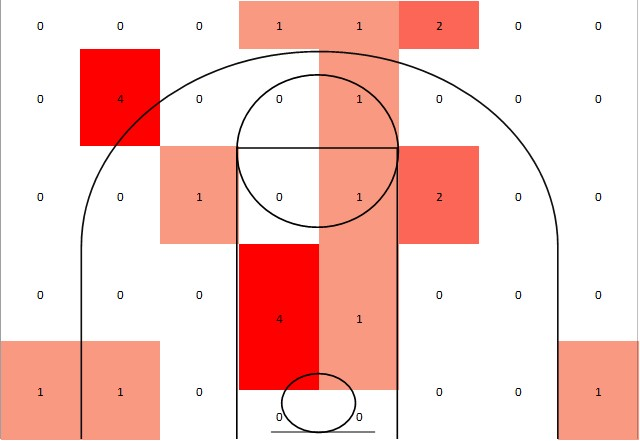
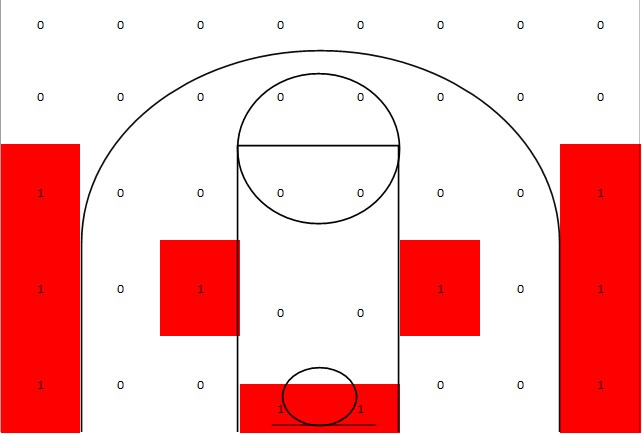
bianca

diff --git a/docs/bianca.html b/docs/bianca.html
@@ -32,16 +32,18 @@
     <!-- Area principal do site -->
     <main>
        <section class="materias">
-            <header class="depoimento_conteudo bloco_cabecalho_degrade">#4 Maila Ciciardi</a></header>
+            <header class="depoimento_conteudo bloco_cabecalho_degrade"># Bianca</a></header>
             <div class="segundapagina espaco">   
                
                 <img class="cara" src="galeria/4.jpg">
-                <p>Idade: 27
+                <p>Idade: 23
             </br>
-           Posição: Armadora
+           Posição: Lateral
         </br>
-        Característica: Com um excelente manejo de bola e uma saída rápida invejável, consegue cortar facilmente sua marcadora,
-        criando situações de ajuda do time adversário (obrigando-as a fechar o garrafão).
+        Número de treinos: 26 treinos.
+        </br>
+        Característica: Com um excelente manejo de bola e um arremesso consistente, consegue cortar e utilizar o pé de pivô na finalização,
+        criando situações de ajuda do time adversário (obrigando o adversário a fechar o garrafão).
 
             </p>
              
@@ -53,34 +55,43 @@
             <div class="segundapagina espaco">   
                
                 <img class="shoot" src="galeria/4.1.jpg">
-                <p>Alta porcentagem em arremessos de 2 pontos, com foco total em finalizações próximo à cesta. 
+                <p>Começando pela ausência de pontuação em ataque e defesa zona, valores baixos são normais pois não são abordados nos treinos
+                    e nos jogos. Com melhorias consideráveis em finalização, no uso de arremessos rápidos, uso de movimentos variados para 
+                    finalização. Porém ainda em desenvolvimento elementos como bandeja e arremesso de 3 pontos. 
                     
-                    
-
-            
+            </p>
+            <p>Outro elemento que teve um excelente avanço foi o controle de bola, com mudança de direção consistente e consciente.
+                Sendo utilizado nos jogos, entretando, ainda em fase de aperfeiçoamento.
             </p>
             </div>
         </section>
         <section class="materias">
-            <header class="depoimento_conteudo bloco_cabecalho_degrade">Arremessos convertidos</a></header>
+            <header class="depoimento_conteudo bloco_cabecalho_degrade">Zona de finalização</a></header>
             <div class="segundapagina espaco">   
                
                 <img class="shoot" src="galeria/4.2.jpg">
-                <p>Acertos principais produtos de jogo 1x1 e bandeja. Característica forte com possíbilidades de ser melhor
-                    explorada nos jogos. Em outras palavras, confiar mais no corte 1x1 e buscar atacar mais a cesta.
+                
+                <p> A zona de finalização funciona com uma porcentagem aproximada. A cada 100 arremessos realizados, o gráfico mostra
+                    a frequência de tais arremessos. Os dados foram coletados nos jogos em que a atleta participou.    
             </p>
+            <br/>
+            <p> Com ele, percebe-se o jogo concentrado no garrafão e em alguns pontos específicos da quadra. Abrindo possíbilidades
+                para novos arremessos. Como por exemplo o aperfeiçoamento da bandeja e arremessos de 3 pontos.  
+        </p>
             </div>
         </section>
 
         <section class="materias">
-            <header class="depoimento_conteudo bloco_cabecalho_degrade">Arremessos errados</a></header>
+            <header class="depoimento_conteudo bloco_cabecalho_degrade">Passos futuros</a></header>
             <div class="segundapagina espaco">   
                
                 <img class="shoot" src="galeria/4.3.jpg">
-                <p>Erros de diversos locais da quadra, com atenção nos 45 graus lado direito da quadra. Com possibilidades de 
-                    melhorar infiltração em dois tempos (bandeja subindo para a cesta e em ultima hora passar a bola) e arremessos
-                    saindo de corta luz.
-            </p>
+                <li>Explorar e confiar mais em extensões da zona morta para arremessos de 3 pontos e meia distância. </li>
+                <li>Melhorar a velocidade de saída e explosão em direção a cesta. </li>
+                <li>Aumentar o controle de bola no corte 1x1. </li>
+                <br/>
+                <p> Esses e outros serão os pontos a serem trabalhados para a próxima temporada. Além de defesa zona (que será melhor explorada
+                    em jogos 5x5) e movimentação de pés. </p>
             </div>
         </section>
 
